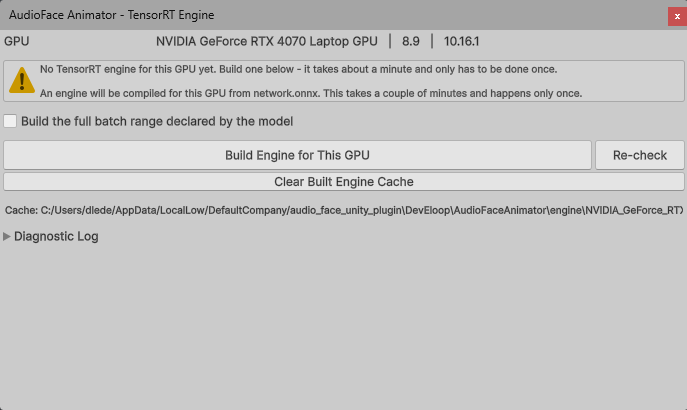
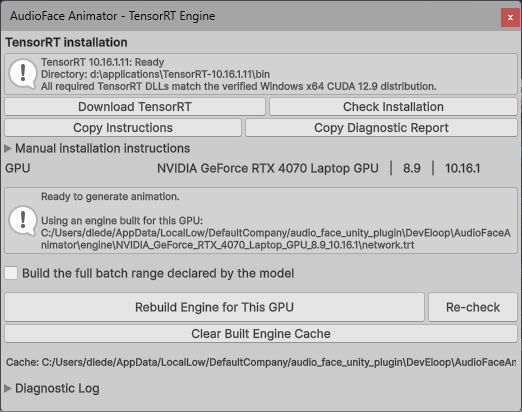
Complete Audio Face Animator 2.0 documentation screenshots

diff --git a/audio-face-animator/docs/index.md b/audio-face-animator/docs/index.md
@@ -68,6 +68,8 @@ The Lite version has three generation limitations:
 Everything else — mapping, emotions, eyes, blinking, AnimationClip export — is
 the same in both.
 
+![Lite Face Animator with CPU selected, CPU readiness, and the orange banner explaining the five-second and Editor-only generation limits](/audio-face-animator/docs/img/face-animator-lite.png){: width="618" height="658"}
+
 If you own the full version and still see a five-second cap or an orange
 **⚠ LITE VERSION** banner on the Face Animator, the model files did not arrive
 intact; see [Troubleshooting](#troubleshooting). The
@@ -168,9 +170,16 @@ are included in the asset; CUDA DLLs are bundled.
 The plugin does not download dependencies or edit `PATH` for you. Python, pip
 and a separate CUDA Toolkit are not required. Once installed, generation runs offline.
 
+![TensorRT setup with Manual installation instructions expanded, including the required version, PATH setup, restart and installation check](/audio-face-animator/docs/img/tensorrt-installation.png){: width="522" height="412"}
+
+*Expand Manual installation instructions for the setup steps. This example was
+captured on a machine where TensorRT was already installed.*
+
 **Tools → AudioFaceAnimator → Setup TensorRT Engine**, then **Build Engine for
 This GPU** — the preflight report links straight to it. Building can take a
 minute or longer, depending on the machine.
+
+![TensorRT 10.16.1.11 installation verified and GPU engine ready, with Download TensorRT, Check Installation, Rebuild Engine and Re-check controls](/audio-face-animator/docs/img/tensorrt-engine-setup.png){: width="522" height="412"}
 
 The engine is compiled from the `network.onnx` synced in step 1, because a
 compiled engine only loads on the GPU architecture it was built for. Leave *Build
@@ -293,11 +302,11 @@ Add it to the character root and drag every mapper into **Blendshapes
 Configuration → Blends Mappers**. Any renderer whose mapper is not listed will
 not move.
 
+![Blends Mappers expanded with five assigned Face Blends Mapper components on JamesModel](/audio-face-animator/docs/img/face-animator-blends-mappers.png){: width="428" height="175"}
+
 ## Generate animation in Editor
 
-[![The version 2.0.0 sample scene with Claire selected: the Inspector on the right shows Generation Backend set to CPU, five Blends Mappers, an assigned Audio Clip, CPU readiness and the Open CPU Preflight Check button](/audio-face-animator/docs/img/face-animator-inspector.png){: width="1918" height="951"}](/audio-face-animator/docs/img/face-animator-inspector.png)
-
-*The Face Animator Inspector is on the right. Open the image for full-size labels.*
+![Face Animator configured for James and CPU, with five Blends Mappers, male_intro Audio Clip, an emotion preset and CPU readiness](/audio-face-animator/docs/img/face-animator-inspector.png){: width="439" height="510"}
 
 **Model Type** — which Audio2Face-3D model generates the animation: **Claire**,
 **James** or **Mark**. Each was trained on a different performer and produces a
@@ -331,6 +340,8 @@ standard Unity `AnimationClip`, which must be saved **inside your project's
 `Assets` folder**. The button is only there while generated data exists, which
 means **before you leave Play mode** — leaving discards it.
 
+![Face Animator after successful CPU generation in Play mode: CPU context loaded, operation Succeeded, and Create AnimationClip available below Generate, Play and Stop](/audio-face-animator/docs/img/face-animator-generate-playmode.png){: width="439" height="693"}
+
 What lands in the clip: one curve per mapped blendshape per renderer, rotation
 curves for every driven bone (plus position curves only for bones some row
 actually offsets), the procedural blink, and the eye rotations if an Eyes
@@ -361,6 +372,11 @@ your machine, and a working reference for wiring the API to UI.
 For the sample's buttons, install **Input System** (`com.unity.inputsystem`
 1.14.2) through **Window → Package Manager**. Without it, the scene's
 `EventSystem` has a missing UI component and buttons may not respond.
+
+[![Package Manager showing Input System 1.14.2 installed under In Project; this capture also shows Unity's package signature warning](/audio-face-animator/docs/img/input-system-package-manager.png){: width="1191" height="610"}](/audio-face-animator/docs/img/input-system-package-manager.png)
+
+*Input System 1.14.2 in Package Manager. The capture also shows a package
+signature warning from this Editor; it does not demonstrate a clean signature check.*
 Generation through the Face Animator Inspector or API works independently of
 this sample UI dependency.
 
